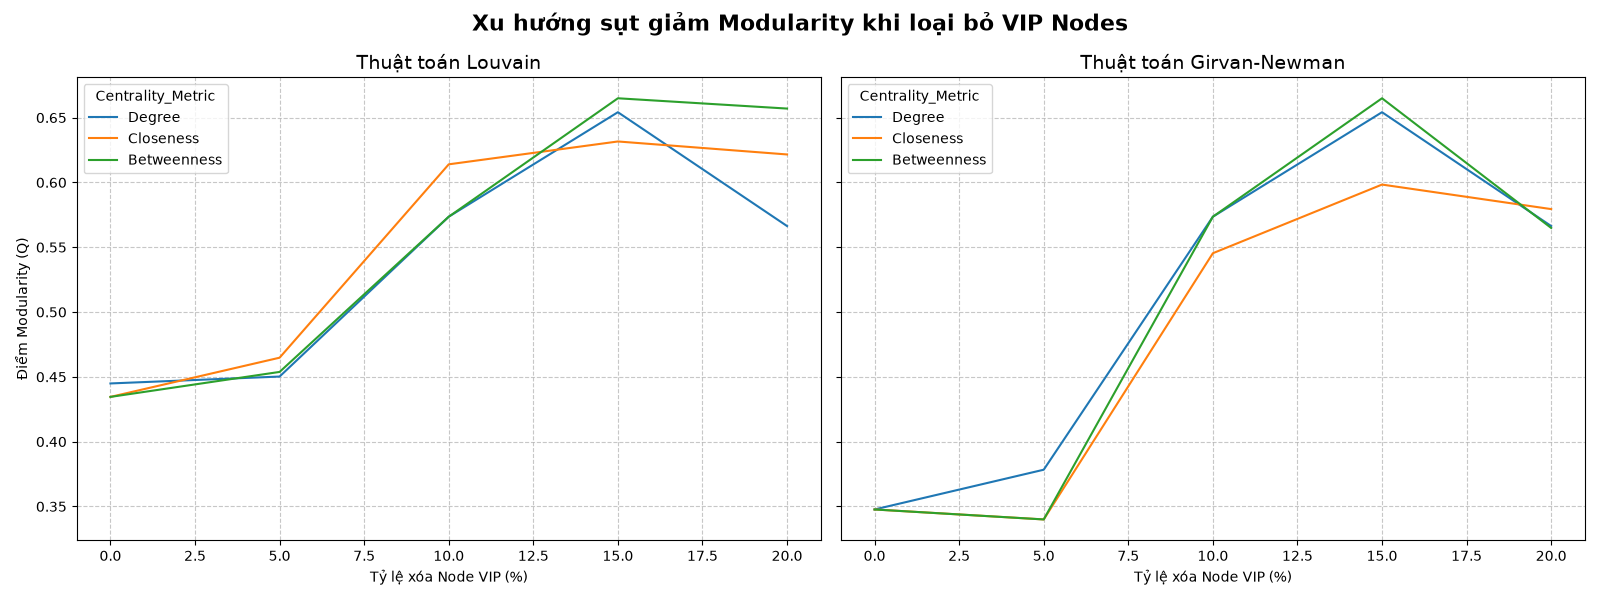
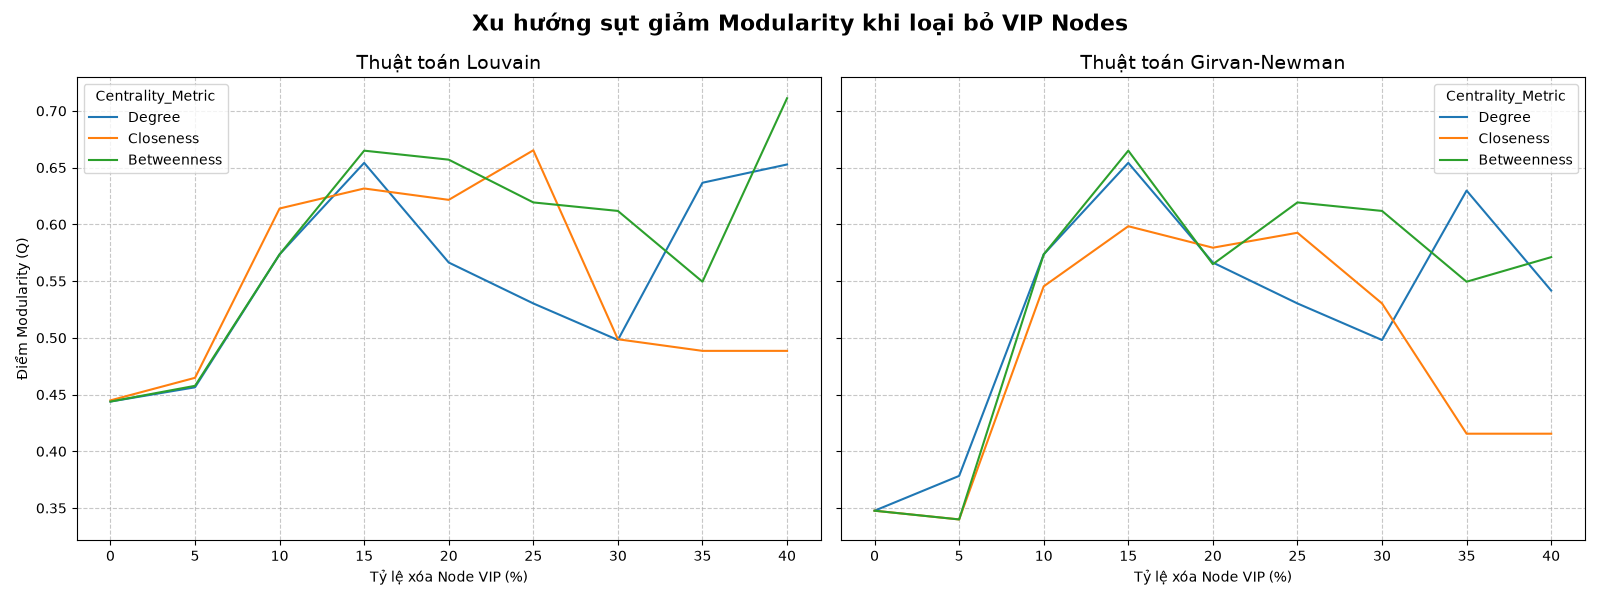
final

diff --git a/MAD/main_pipeline.py b/MAD/main_pipeline.py
@@ -47,12 +47,12 @@ def run_experiment():
     # Chạy thử Louvain trên mạng gốc chưa bị cắt tỉa
     init_comms_l, _, _ = detect_louvain(G)
     # Xuất ảnh mạng lưới gốc ở trạng thái nguyên bản (theo Louvain)
-    plot_network_communities(G, init_comms_l, "Karate_Club_Original_Louvain")
+    plot_network_communities(G, init_comms_l, "Karate_Club_Original_Louvain", subfolder="0pct")
     
     # Chạy thử Girvan-Newman trên mạng gốc chưa bị cắt tỉa
     init_comms_gn, _, _ = detect_girvan_newman(G)
     # Xuất ảnh mạng lưới gốc ở trạng thái nguyên bản (theo Girvan-Newman)
-    plot_network_communities(G, init_comms_gn, "Karate_Club_Original_GirvanNewman")
+    plot_network_communities(G, init_comms_gn, "Karate_Club_Original_GirvanNewman", subfolder="0pct")
     
     # --- BƯỚC 2: TÍNH TOÁN CENTRALITY ---
     # Tính các chỉ số trung tâm (Degree, Closeness, Betweenness) cho đồ thị gốc
@@ -61,8 +61,8 @@ def run_experiment():
     # Định nghĩa danh sách các chỉ số cần test
     metrics = ['degree', 'closeness', 'betweenness']
     
-    # Định nghĩa các tỷ lệ phần trăm xóa node (0%, 5%, 10%, 15%, 20%)
-    removal_percentages = [0.0, 0.05, 0.10, 0.15, 0.20]
+    # Định nghĩa các tỷ lệ phần trăm xóa node (từ 0% lên tới 40% để xem sức chịu đựng tối đa)
+    removal_percentages = [0.0, 0.05, 0.10, 0.15, 0.20, 0.25, 0.30, 0.35, 0.40]
     
     # Khởi tạo danh sách rỗng để lưu trữ các số liệu đo lường ở mỗi vòng lặp
     results = []
@@ -108,13 +108,15 @@ def run_experiment():
             })
             
             # -- TRỰC QUAN HÓA SỰ ĐỨT GÃY --
-            # Đặc biệt lấy mốc xóa 10% (0.10) làm đại diện để vẽ ảnh đồ thị bị phá hỏng cho cả 3 chỉ số
-            if p == 0.10:
+            # Vẽ ảnh đồ thị bị phá hỏng ở các mốc cắt quan trọng: 10%, 20%, 30%, 40%
+            if p in [0.10, 0.20, 0.30, 0.40]:
+                pct_str = int(p * 100)
+                subfolder_name = f"{pct_str}pct"
                 # Xuất ảnh phân nhóm bằng thuật toán Louvain
-                plot_network_communities(G_filtered, comms_l, f"Karate_Club_Removed_10pct_{metric.capitalize()}_Louvain")
+                plot_network_communities(G_filtered, comms_l, f"Karate_Club_Removed_{pct_str}pct_{metric.capitalize()}_Louvain", subfolder=subfolder_name)
                 
                 # Xuất ảnh phân nhóm bằng thuật toán Girvan-Newman
-                plot_network_communities(G_filtered, comms_gn, f"Karate_Club_Removed_10pct_{metric.capitalize()}_GirvanNewman")
+                plot_network_communities(G_filtered, comms_gn, f"Karate_Club_Removed_{pct_str}pct_{metric.capitalize()}_GirvanNewman", subfolder=subfolder_name)
     
     # --- BƯỚC 4: LƯU KẾT QUẢ RA FILE ---
     # Chuyển đổi danh sách kết quả (list of dicts) sang định dạng DataFrame của Pandas

diff --git a/MAD/visualizer.py b/MAD/visualizer.py
@@ -14,7 +14,7 @@ import networkx as nx
 import pandas as pd
 import seaborn as sns
 
-def plot_network_communities(G, communities, title="Network Communities"):
+def plot_network_communities(G, communities, title="Network Communities", subfolder=""):
     """
     Trực quan hóa đồ thị mạng lưới, tô màu các node khác nhau để phân biệt các cộng đồng.
     Xuất đồ thị ra file ảnh định dạng PNG.
@@ -60,8 +60,11 @@ def plot_network_communities(G, communities, title="Network Communities"):
     # Tự động căn chỉnh các thành phần cho vừa vặn với kích thước hình
     plt.tight_layout()
     
-    # Lưu hình ảnh ra file, thay thế khoảng trắng trong tiêu đề bằng dấu gạch dưới và lưu vào folder result
-    file_path = f"result/{title.replace(' ', '_')}.png"
+    # Tạo thư mục con nếu có, sau đó lưu hình ảnh ra file
+    folder_path = f"result/{subfolder}" if subfolder else "result"
+    os.makedirs(folder_path, exist_ok=True)
+    
+    file_path = f"{folder_path}/{title.replace(' ', '_')}.png"
     plt.savefig(file_path)
     
     # Đóng đồ thị để giải phóng bộ nhớ